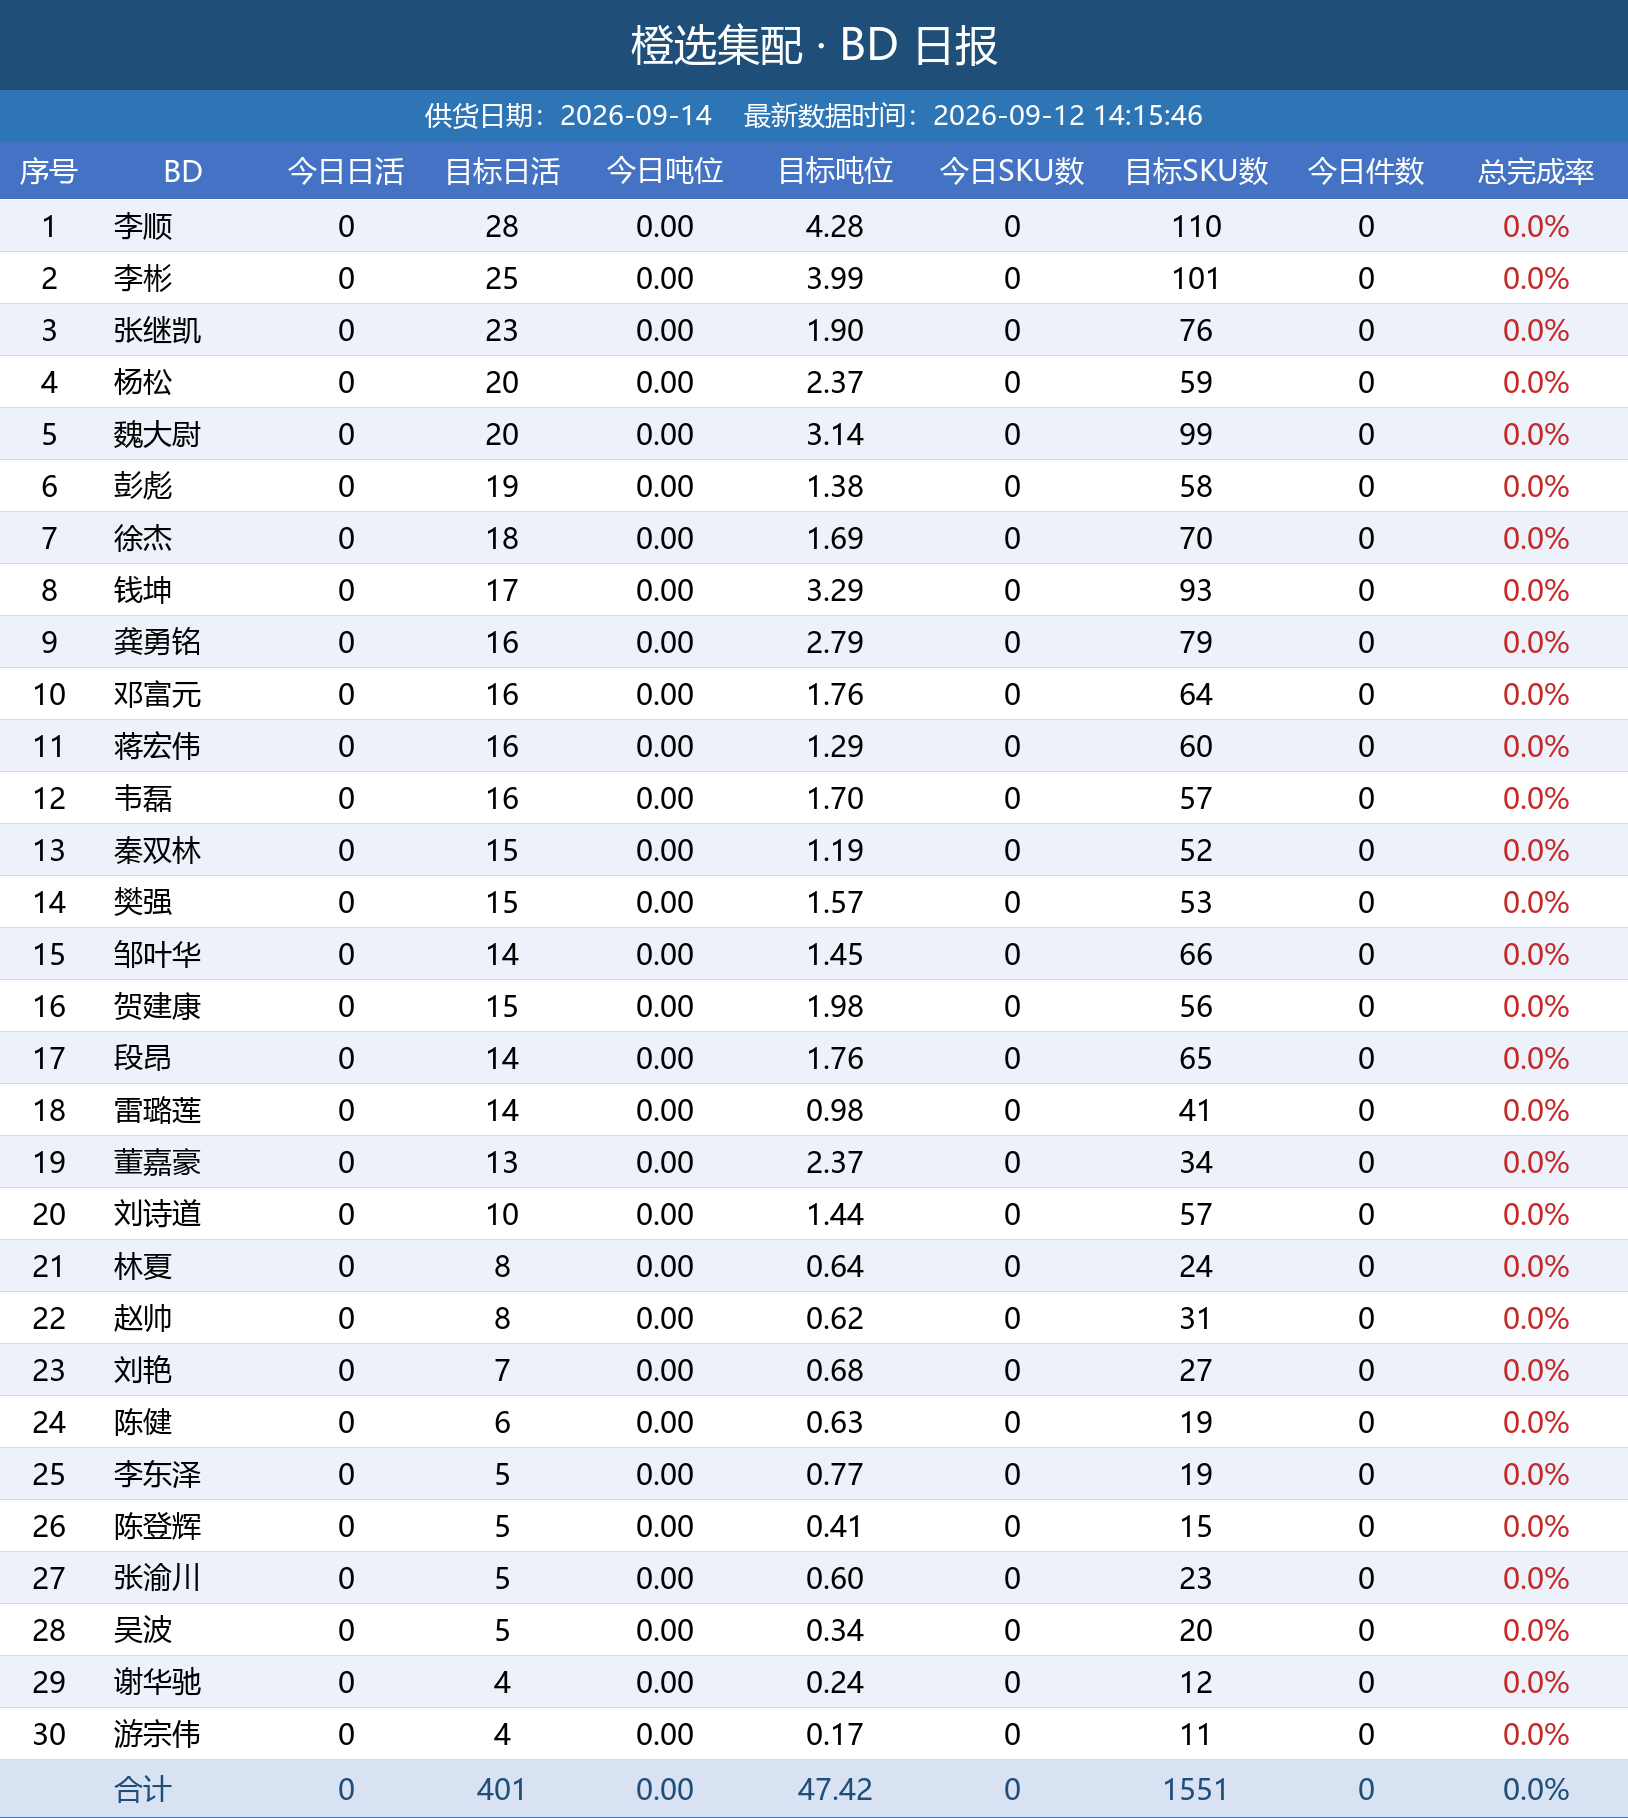
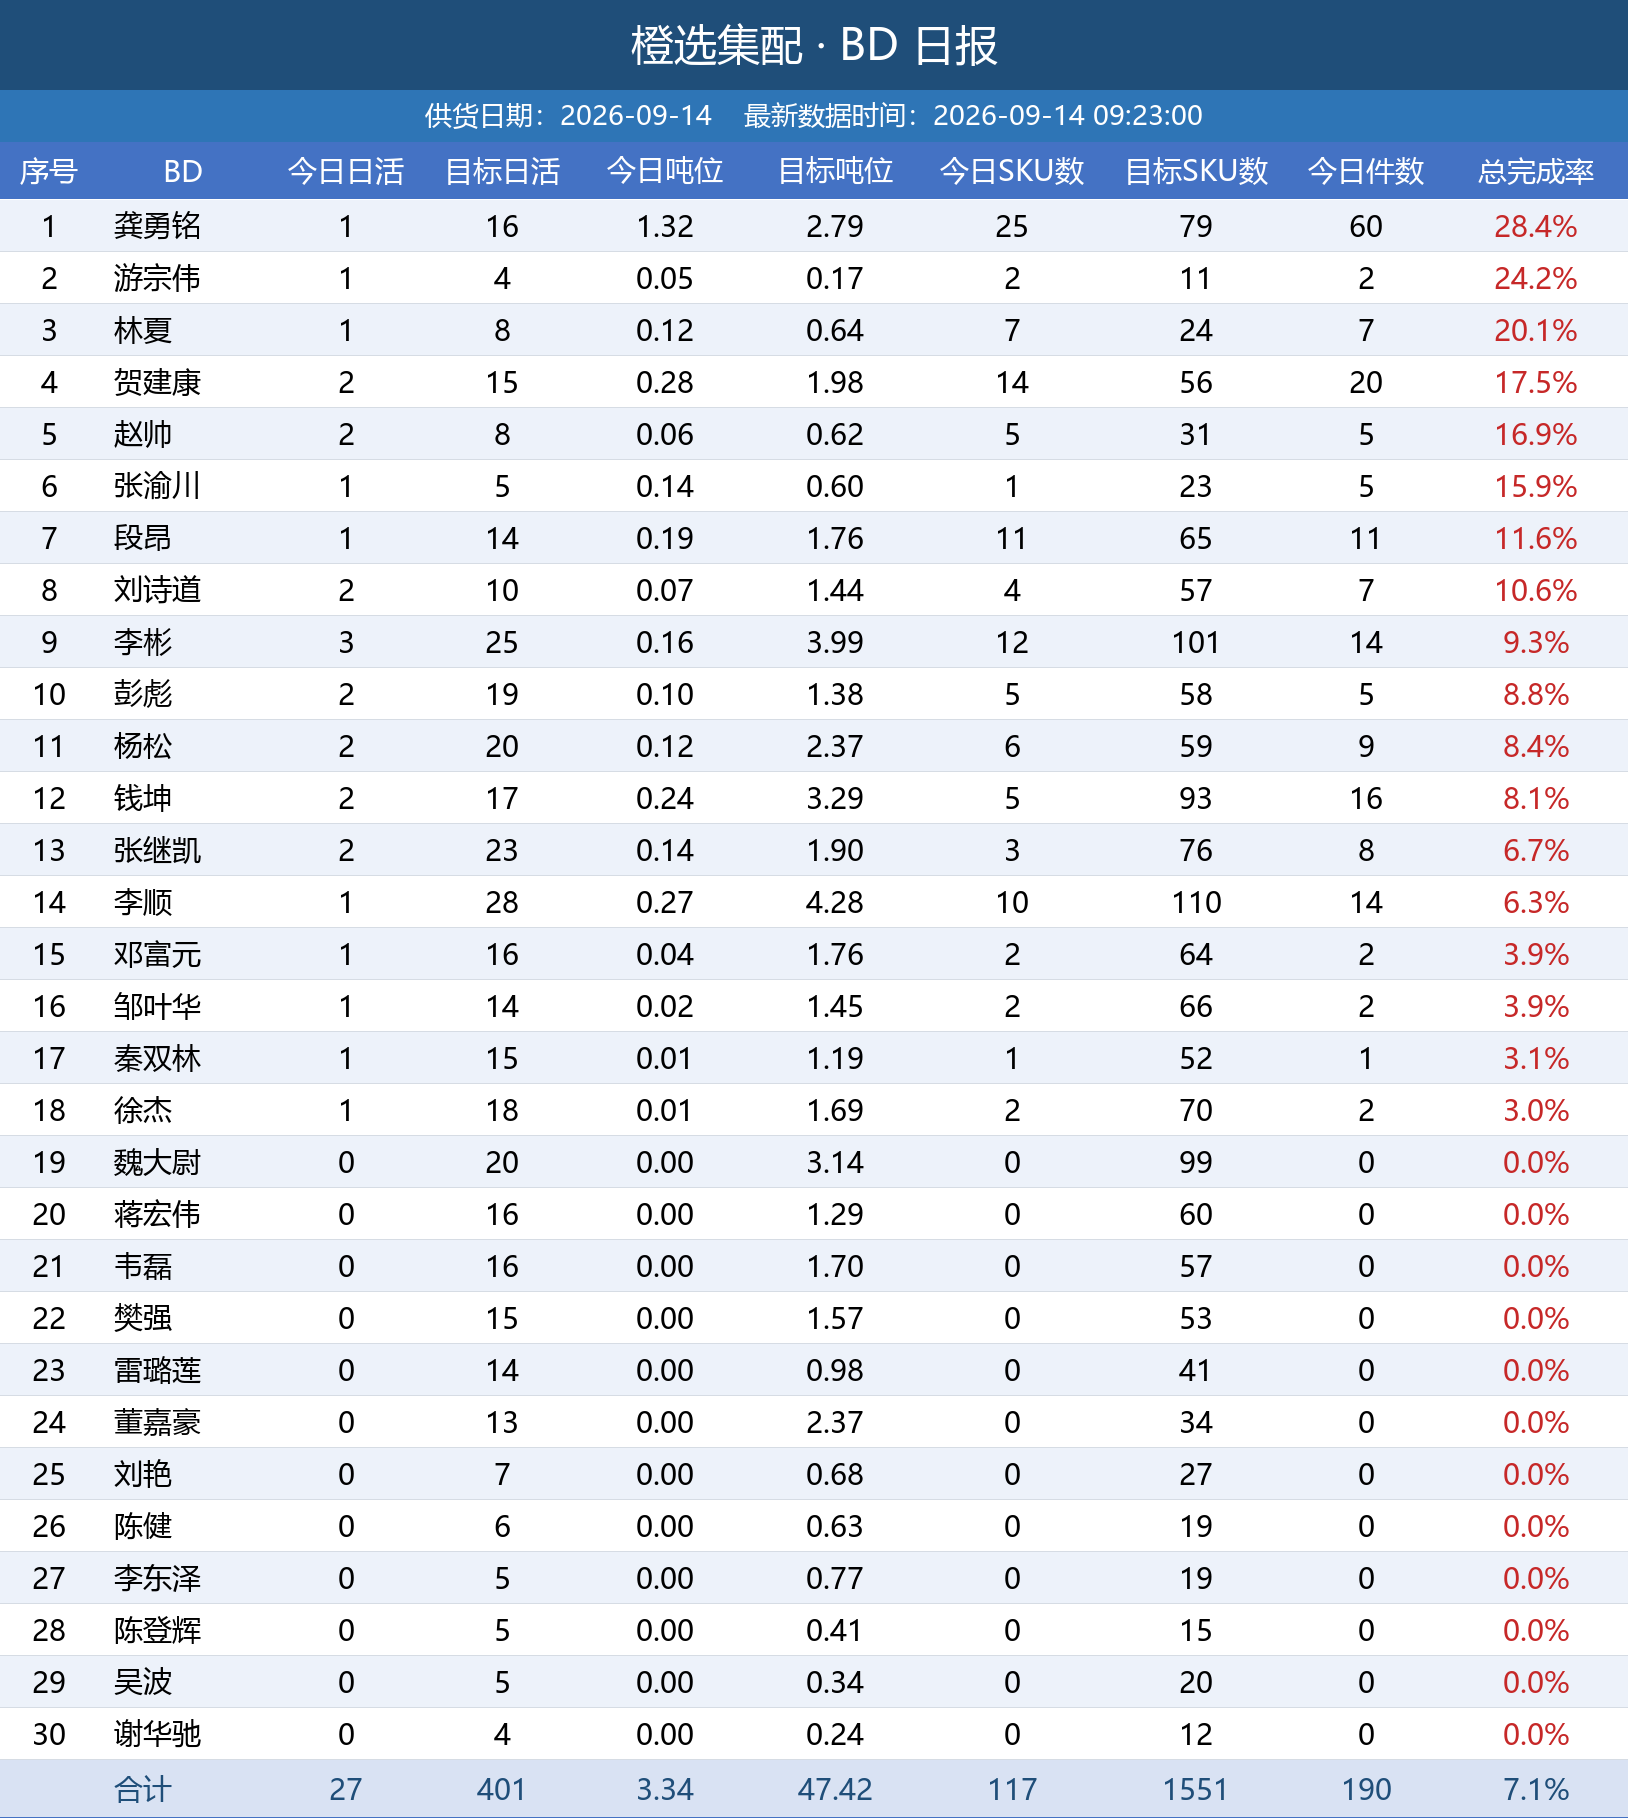
自动更新日报图片

diff --git a/index.html b/index.html
@@ -11,7 +11,7 @@ img { max-width: 100%; border: 1px solid #e5e5e5; margin-bottom: 24px; display: 
 </style>
 </head>
 <body>
-<h1>橙选集配日报图片（20260914_012448）</h1>
+<h1>橙选集配日报图片（20260914_092303）</h1>
 <img src="bd_latest.png" alt="BD 日报">
 <img src="wh_latest.png" alt="城市仓日报">
 <img src="zs_latest.png" alt="招商日报">
